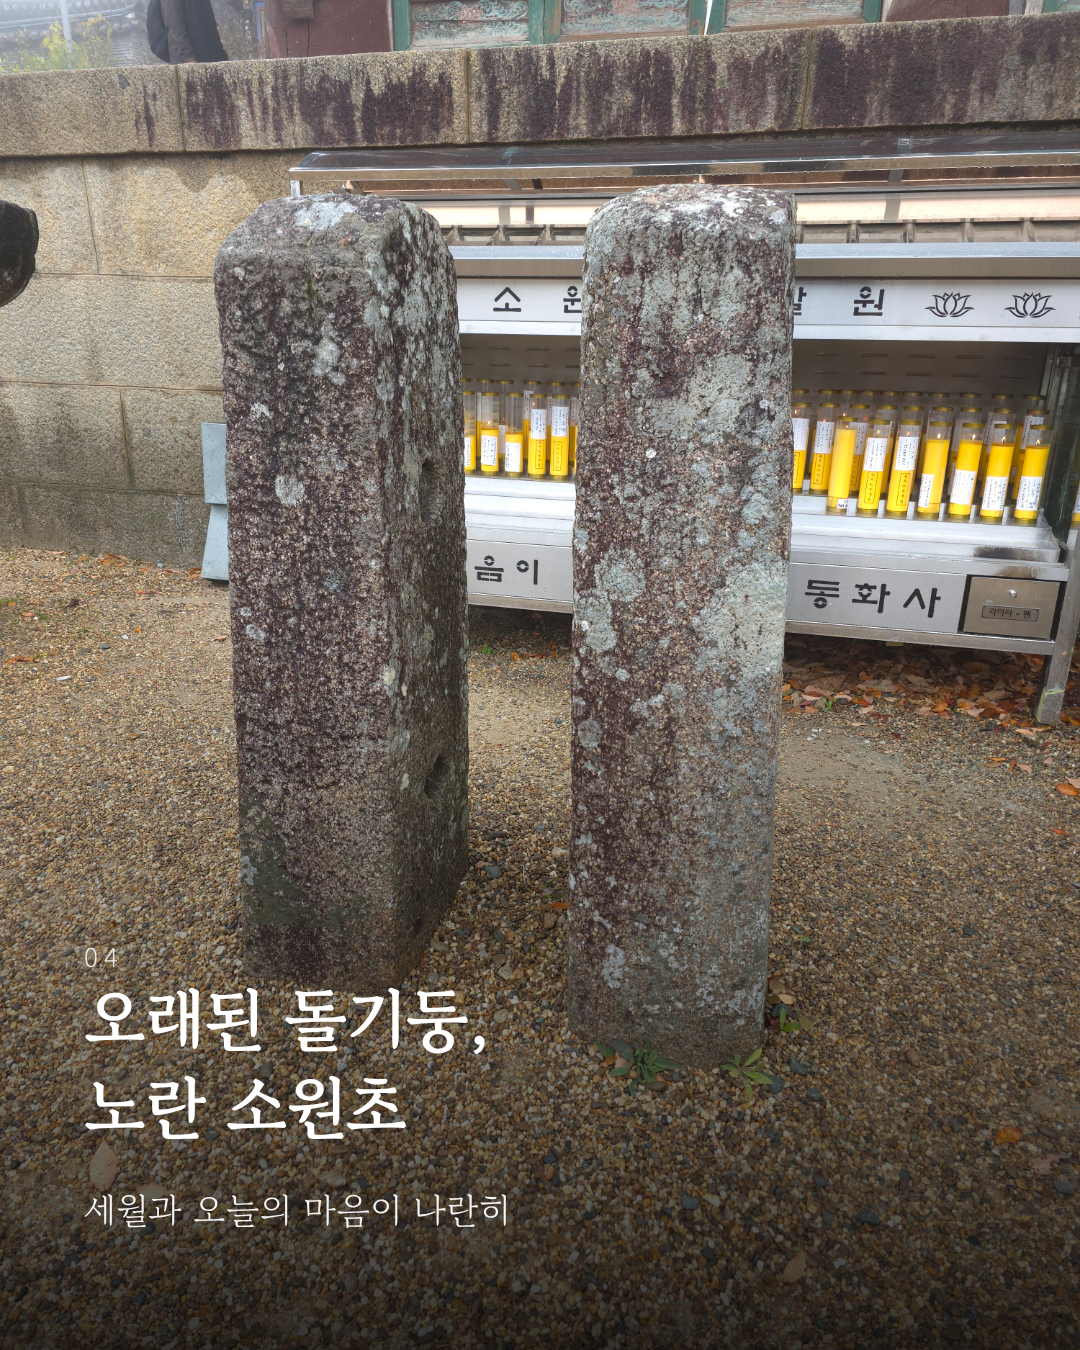
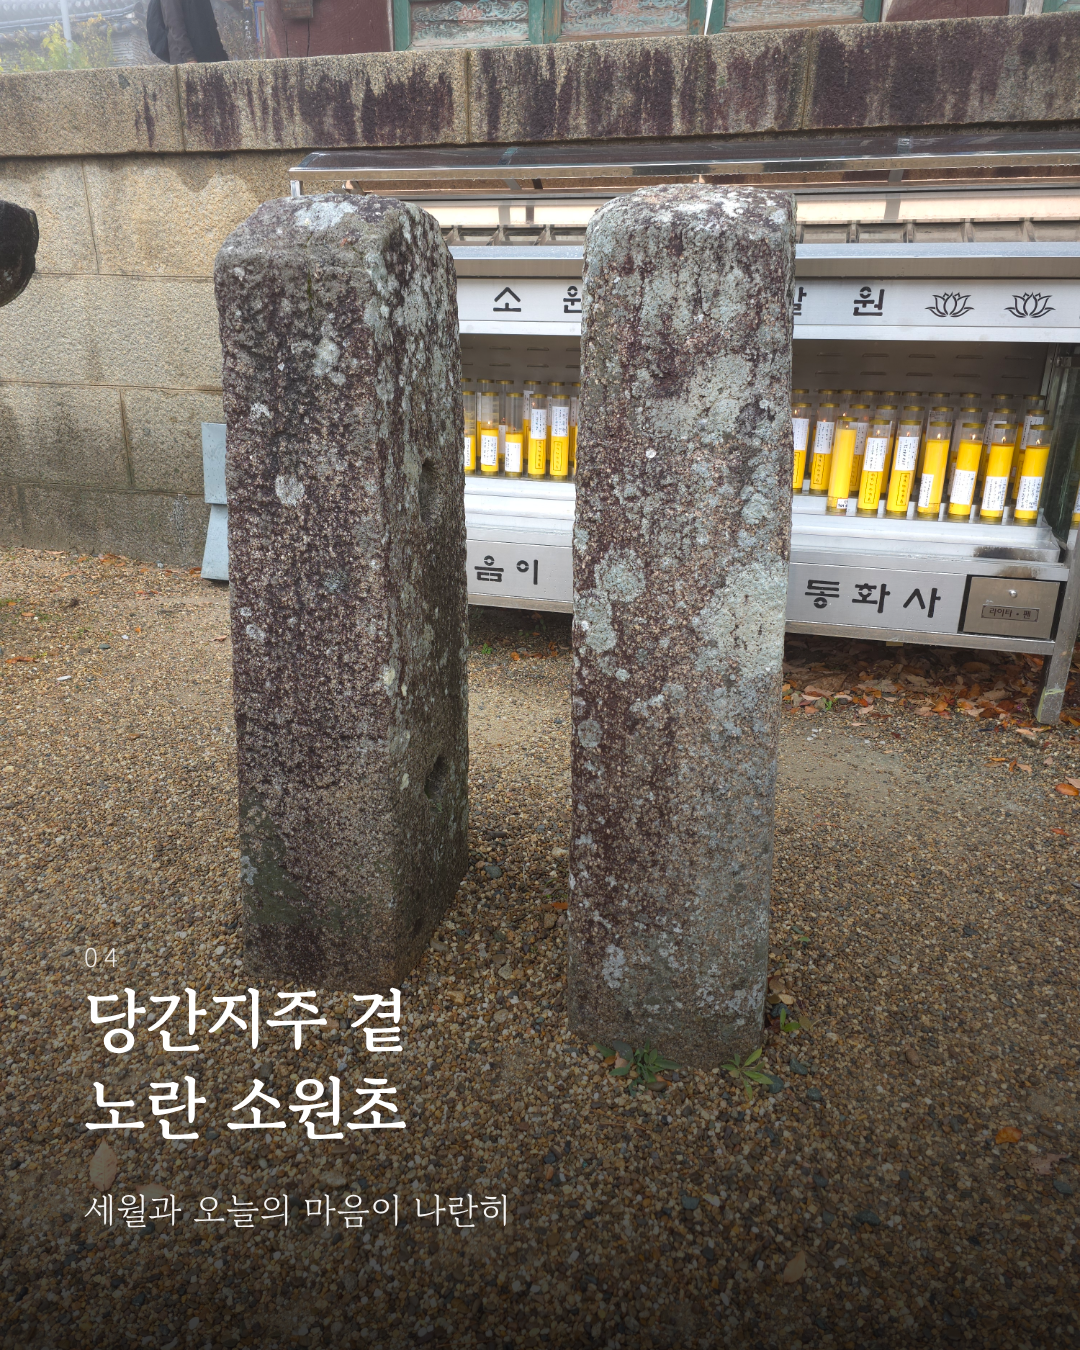
Card 5: label stone pillars as 당간지주
Claude-Session: https://claude.ai/code/session_01DMuKcpM29d5FHQdT8b35KP

Changed region(s): [[0.0611, 0.7156, 0.4583, 0.7778]]

diff --git a/cardnews/cards.html b/cardnews/cards.html
@@ -67,7 +67,7 @@ p{font-size:36px;line-height:1.7;margin-top:28px;opacity:.95}
   <div class="shade" style="background:linear-gradient(180deg,rgba(0,0,0,0) 45%,rgba(0,0,0,.8) 100%)"></div>
   <div class="txt" style="bottom:110px">
     <div class="num">04</div>
-    <h2>오래된 돌기둥,<br>노란 소원초</h2>
+    <h2>당간지주 곁<br>노란 소원초</h2>
     <p>세월과 오늘의 마음이 나란히</p>
   </div>
 </div>
